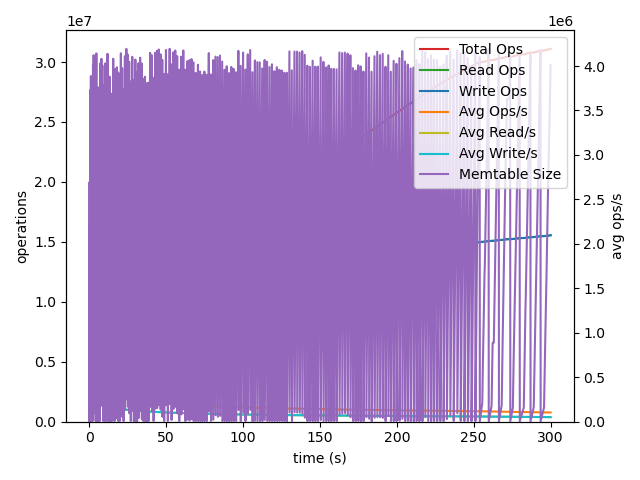
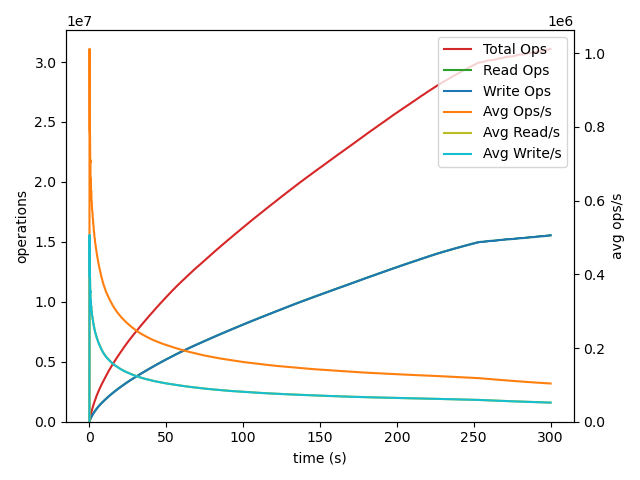
Updating graph

diff --git a/gen_graph.py b/gen_graph.py
@@ -25,7 +25,7 @@ ax2.set_ylabel('avg ops/s')
 ax2.plot(data['time'], data['read_ops_per_sec'] + data['write_ops_per_sec'], color='tab:orange', label='Avg Ops/s')
 ax2.plot(data['time'], data['read_ops_per_sec'], color='tab:olive', label='Avg Read/s')
 ax2.plot(data['time'], data['write_ops_per_sec'], color='tab:cyan', label='Avg Write/s')
-ax2.plot(data['time'], data['memtable_size'], color='tab:purple', label='Memtable Size')
+# ax2.plot(data['time'], data['memtable_size'], color='tab:purple', label='Memtable Size')
 ax2.tick_params(axis='y')
 
 # Make sure both y-axes start at 0
